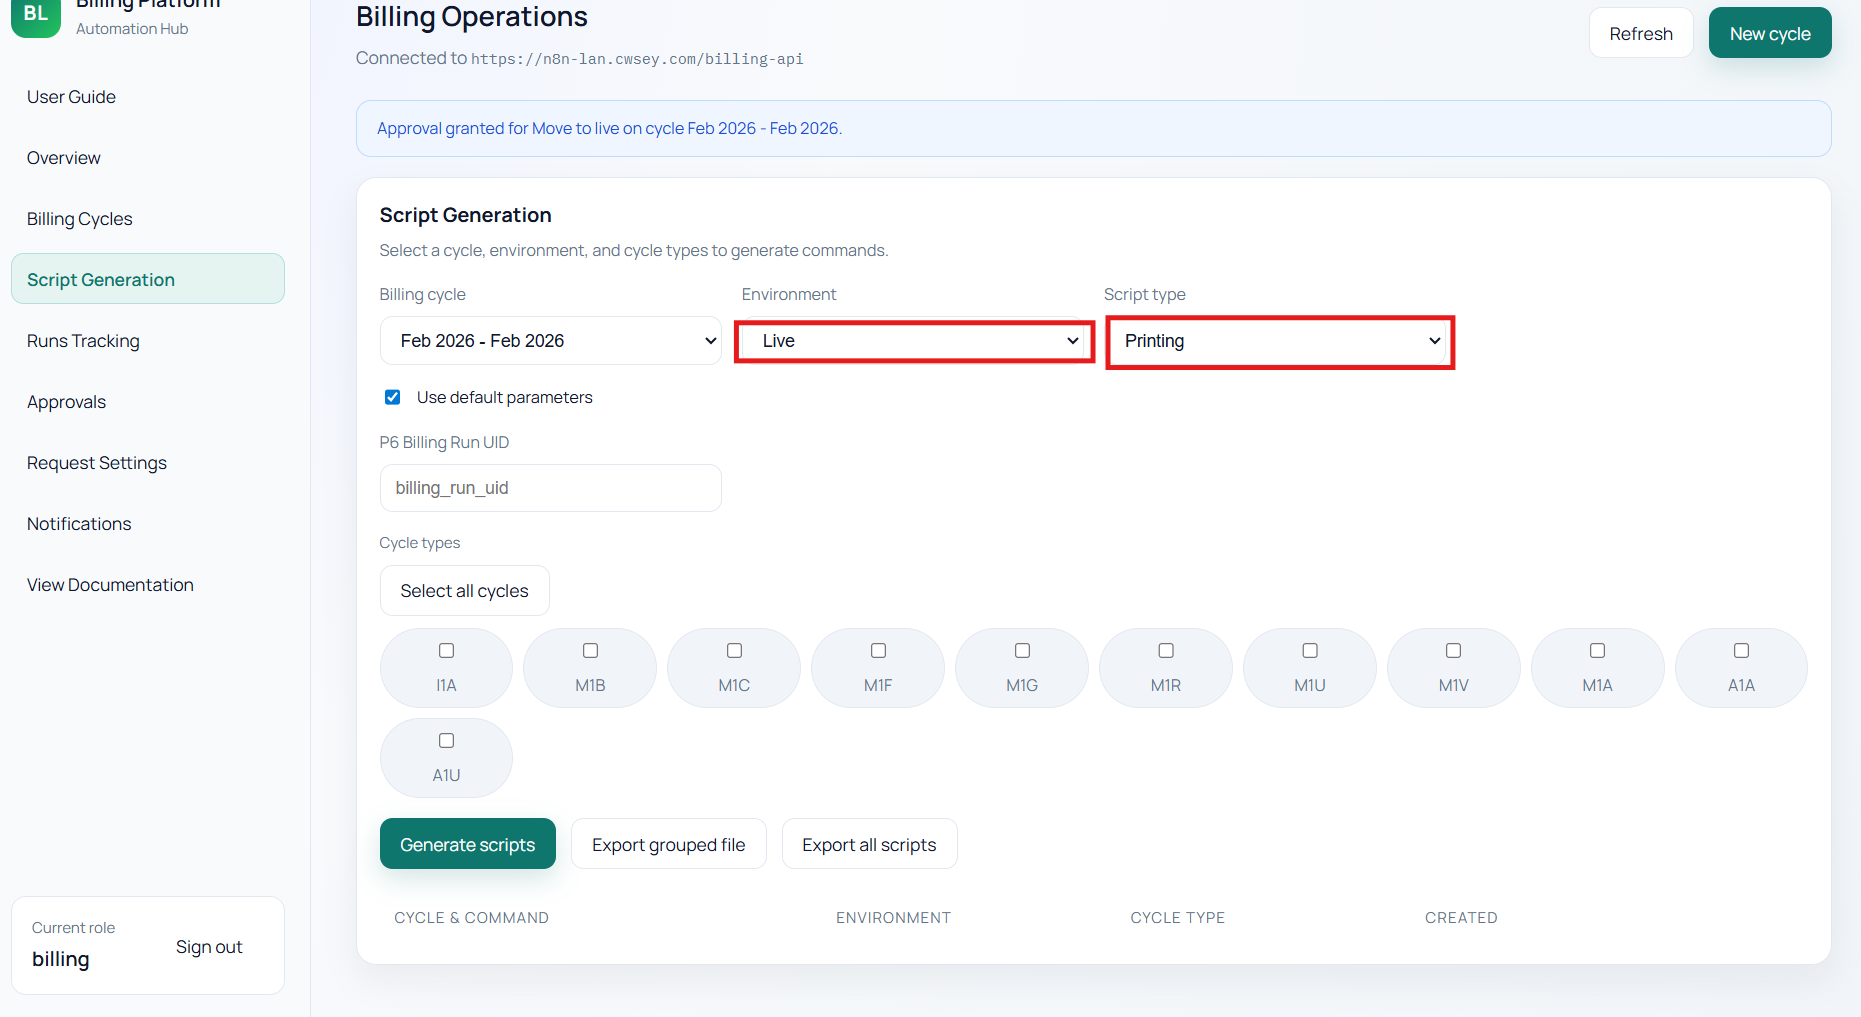
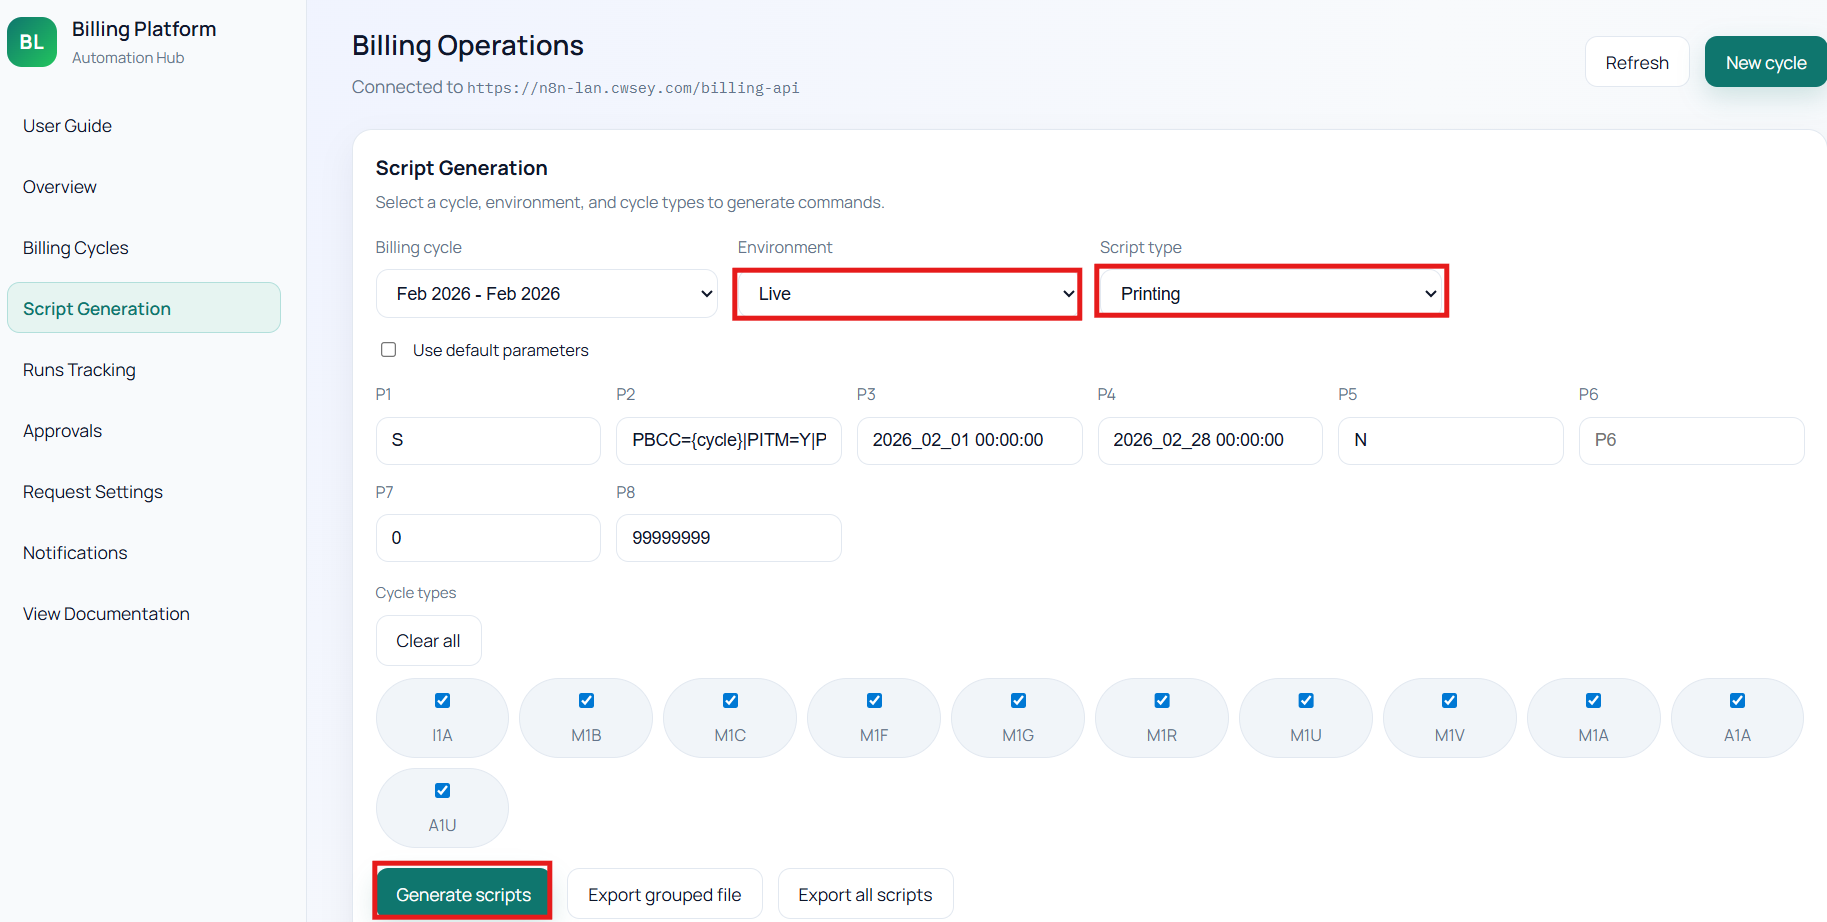
docs: refresh approval and live screenshots

diff --git a/docs/platform/billing_user_guide.md b/docs/platform/billing_user_guide.md
@@ -153,6 +153,7 @@ What should happen next:
 
 **Where:** `Approvals`
 ![Step 5.1: Review Cycle](/billing/user-guide/review-cycle.png)
+
 ![Step 5.2: Approving the Cycle](/billing/user-guide/finance-approvals.png)
 What to do:
 
@@ -170,8 +171,8 @@ What should happen next:
 ### Step 6: Generate live scripts (Billing user)
 
 **Where:** `Script Generation`
-![Step 6.1: Switch to Live and Printing](/billing/user-guide/move-to-live.png)
-![Step 6.2: Stage Change and Request Approval](/billing/user-guide/approvals-live.png)
+![Step 6: Switch to Live and Printing](/billing/user-guide/move-to-live.png)
+
 What to do:
 
 - Select the same billing cycle.
@@ -188,7 +189,7 @@ What should happen next:
 ### Step 7: Request approval that live is complete (Billing user)
 
 **Where:** `Approvals`
-
+![Step 7: Stage Change and Request Approval](/billing/user-guide/approvals-live.png)
 What to do:
 
 - Select stage **Live complete**.
@@ -204,6 +205,7 @@ What should happen next:
 ### Step 8: Finance reviews “Live complete” (Finance user)
 
 **Where:** `Approvals`
+![Step 8: Stage Change and Request Approval](/billing/user-guide/finance-approvals-live.png)
 
 What to do:
 
@@ -220,6 +222,7 @@ What should happen next:
 
 **Where:** `Notifications`
 
+![Step 9: Stage Change and Request Approval](/billing/user-guide/notifications.png)
 What to do:
 
 - Select the billing cycle.
